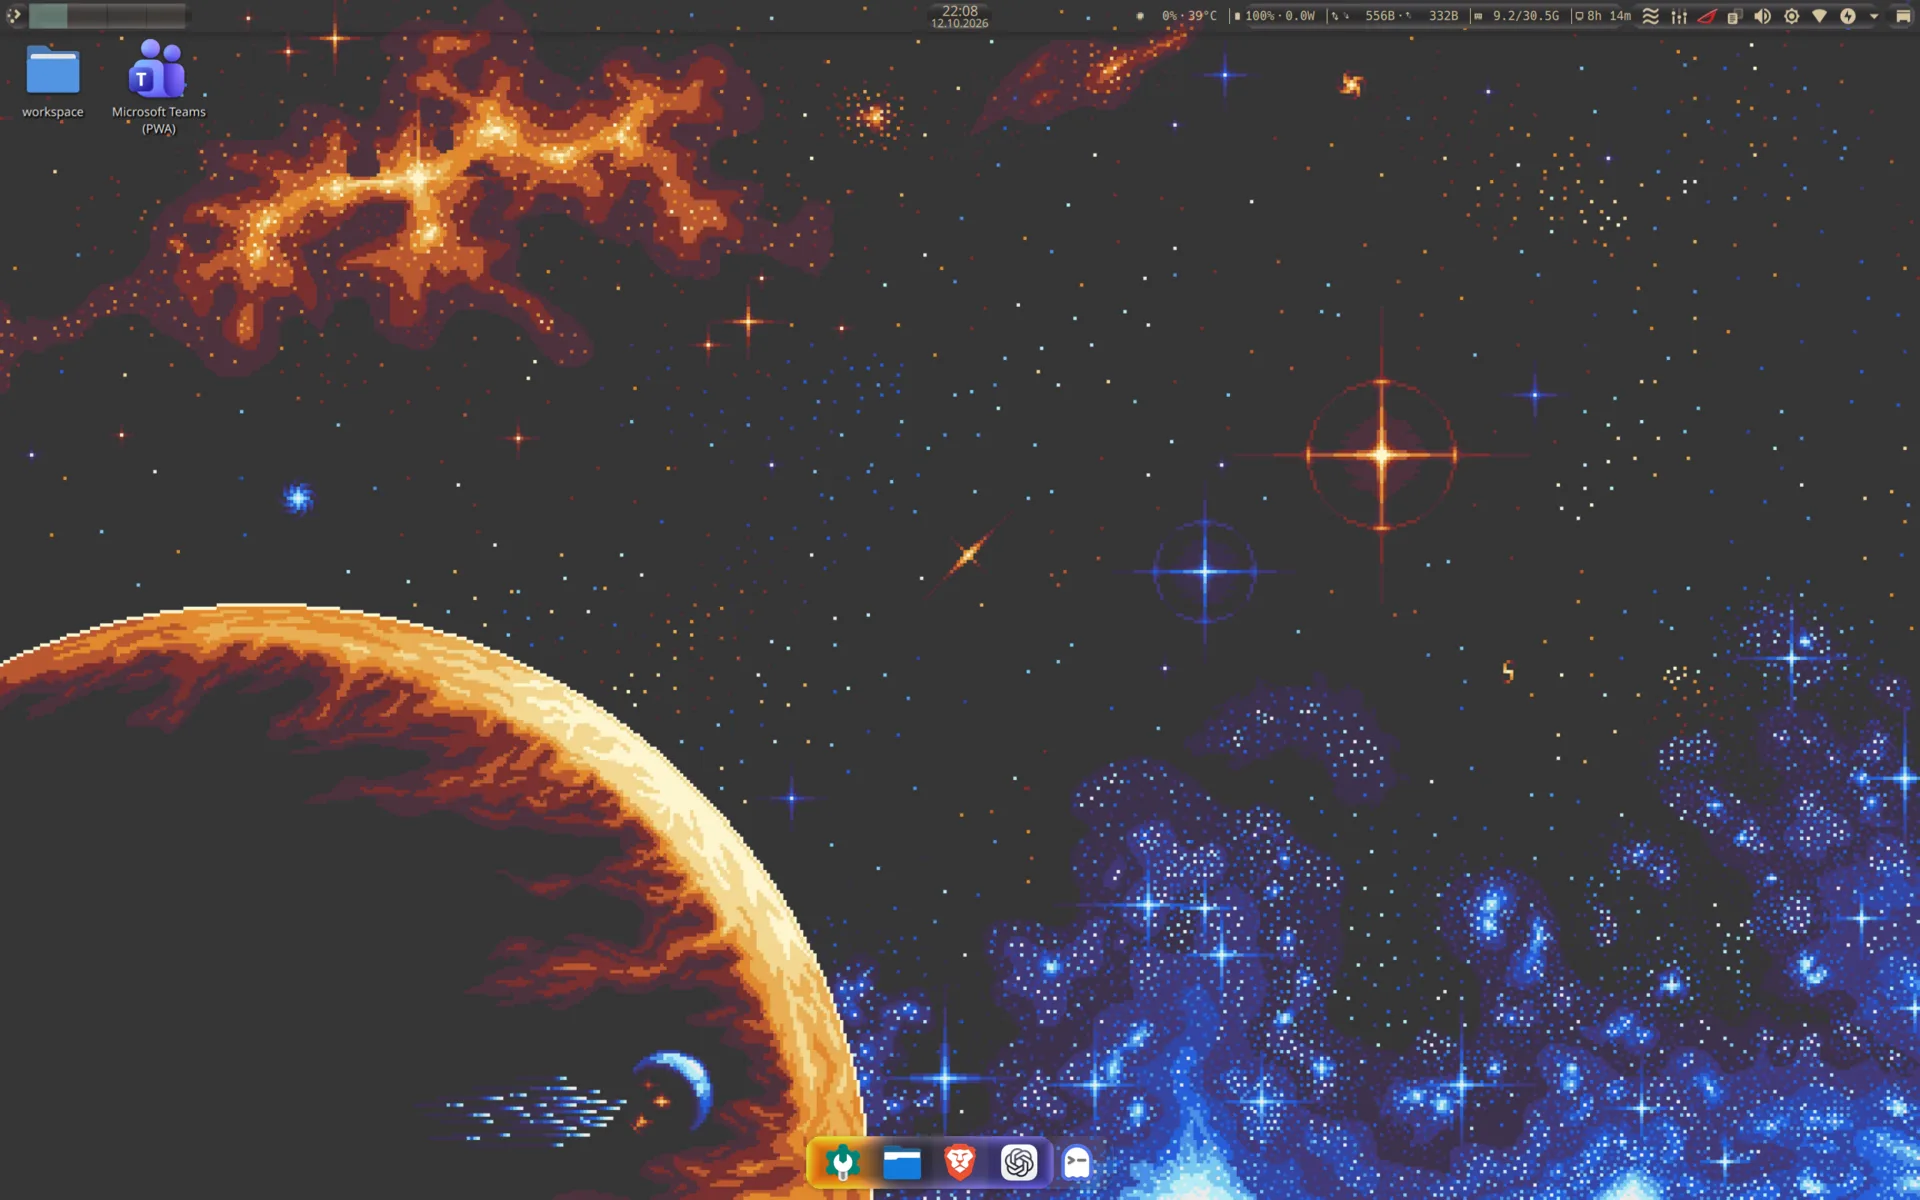
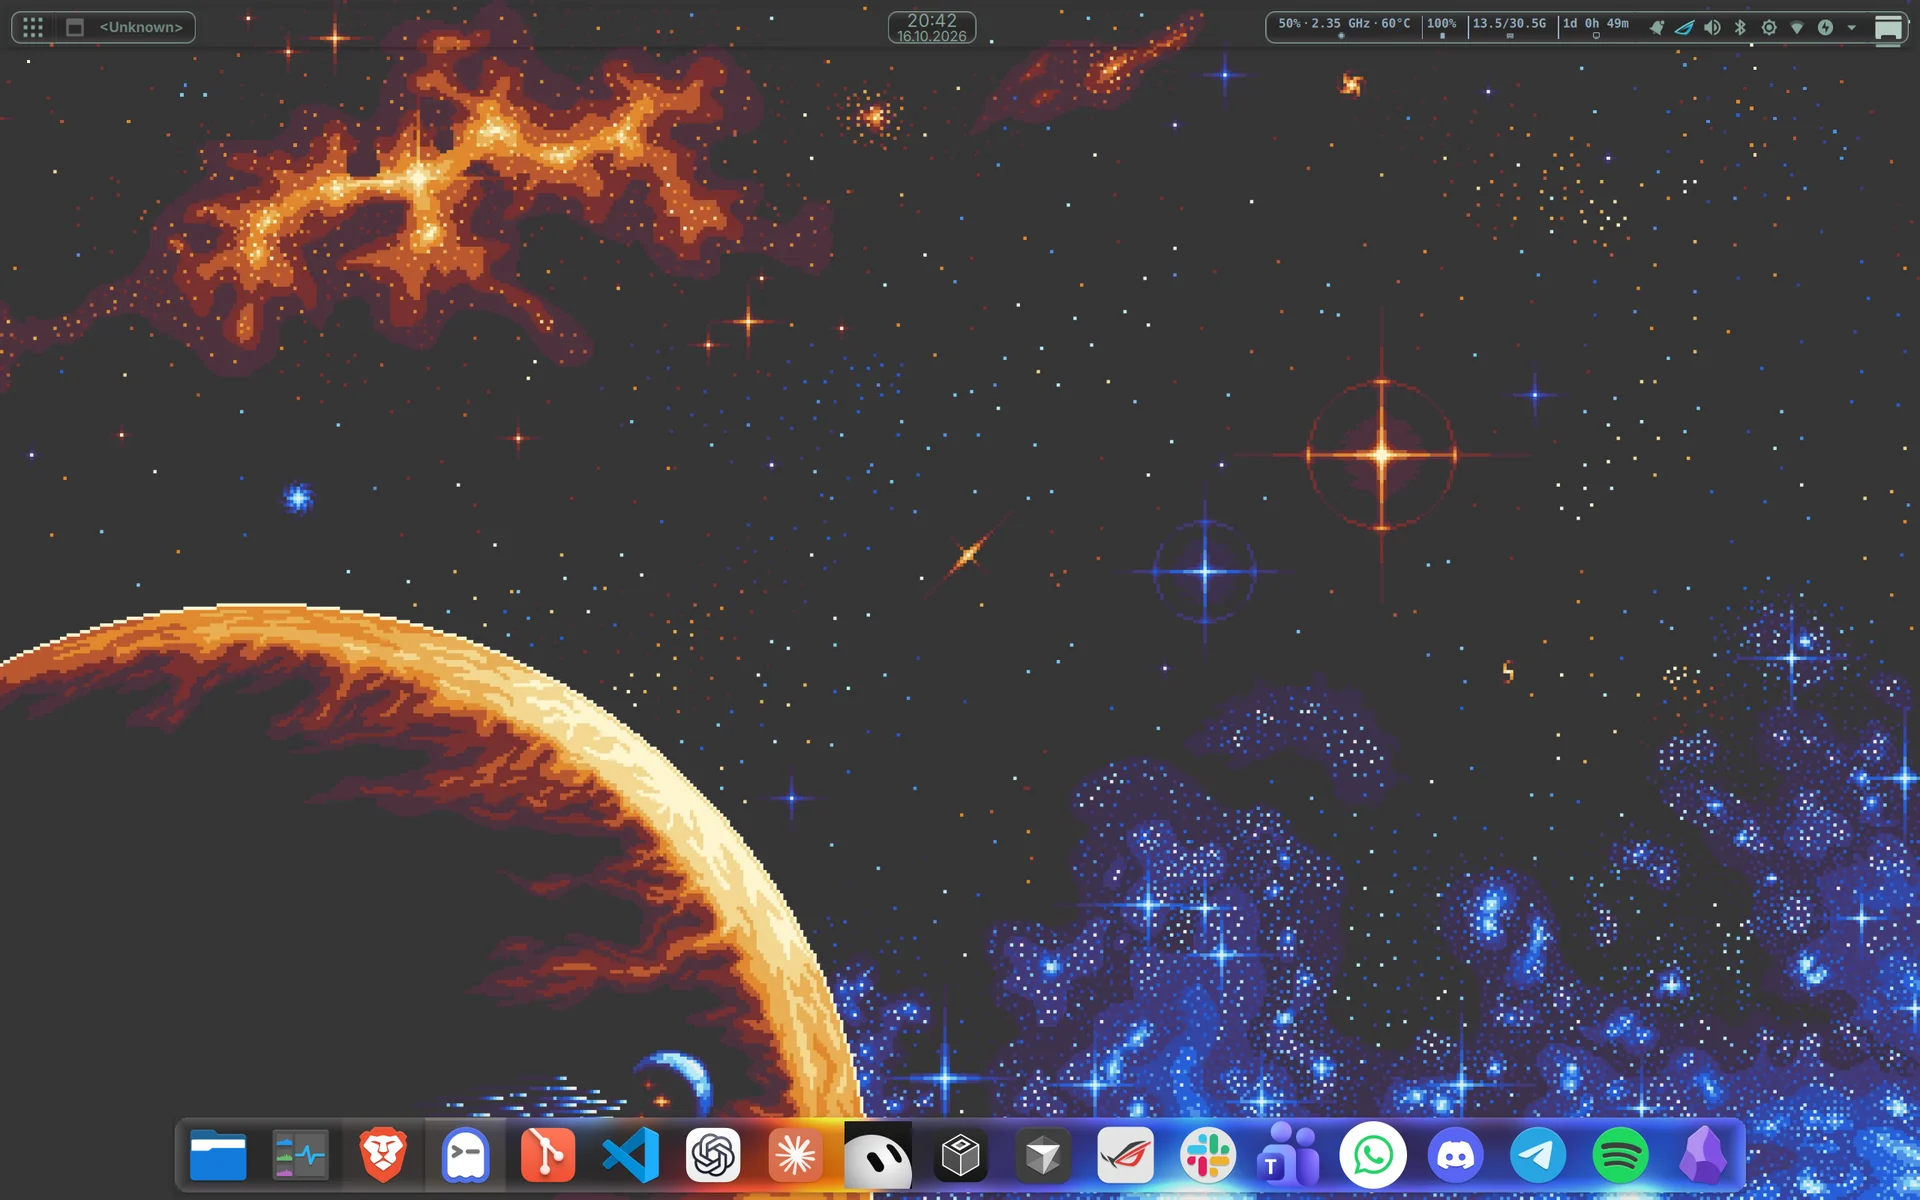
docs(readme): add a stack table, new highlights, fresh screenshots and an MIT licence (#166)

diff --git a/README.md b/README.md
@@ -7,17 +7,19 @@
 **Two NixOS laptops in one flake, deployed from a Fedora desktop over Tailscale,<br>
 with a CachyOS kernel that CI compiles so the laptops never do.**
 
+This is my own setup, not a framework. Read it and copy the parts you need.
+
 [![NixOS unstable](https://img.shields.io/badge/NixOS-unstable-5277C3?style=flat-square&logo=nixos&logoColor=white)](https://github.com/NixOS/nixpkgs/tree/nixos-unstable)
 [![check](https://img.shields.io/github/actions/workflow/status/OmerFarukOruc/nixos-config/check.yml?branch=main&style=flat-square&label=check&logo=github)](https://github.com/OmerFarukOruc/nixos-config/actions/workflows/check.yml)
 [![kernel-cache](https://img.shields.io/github/actions/workflow/status/OmerFarukOruc/nixos-config/kernel-cache.yml?branch=main&style=flat-square&label=kernel-cache&logo=linux&logoColor=white)](https://github.com/OmerFarukOruc/nixos-config/actions/workflows/kernel-cache.yml)
 [![host-packages-cache](https://img.shields.io/github/actions/workflow/status/OmerFarukOruc/nixos-config/host-packages-cache.yml?branch=main&style=flat-square&label=host-packages-cache)](https://github.com/OmerFarukOruc/nixos-config/actions/workflows/host-packages-cache.yml)
 [![Cachix](https://img.shields.io/badge/cachix-omerfarukoruc-4E7FC1?style=flat-square)](https://omerfarukoruc.cachix.org)
 
-[Hosts](#hosts) · [Highlights](#highlights) · [Layout](#layout) · [Everyday commands](#everyday-commands) · [Docs](#docs) · [Built on](#built-on)
+[Hosts](#hosts) · [Stack](#stack) · [Highlights](#highlights) · [Layout](#layout) · [Everyday commands](#everyday-commands) · [Docs](#docs) · [Built on](#built-on)
 
 <img src="assets/screenshots/nixos-rog-plasma-fastfetch.webp" width="90%" alt="nixos-rog running KDE Plasma with fastfetch in Ghostty">
 
-<sub>nixos-rog · KDE Plasma · Ghostty · Gruvbox Dark Medium from Base16</sub>
+<sub>nixos-rog · KDE Plasma with the Glass look · Ghostty · Warm Burnout Dark from Base16</sub>
 
 </div>
 
@@ -33,34 +35,81 @@ with a CachyOS kernel that CI compiles so the laptops never do.**
 | --- | --- | --- | --- | --- | --- |
 | `nixos-rog` | daily laptop | ASUS ROG Zephyrus G16 GA605WI, Ryzen AI 9 HX 370, RTX 4070 | Plasma · niri + Noctalia · niri + DMS | CachyOS LTO `zen4` | Limine, next to Windows |
 | `nixos-latitude` | home lab box | Dell Latitude 3550 | niri + Noctalia | CachyOS LTO `x86_64-v3` | systemd-boot |
-| `nixos-desktop` | planned | the PC that runs fedora-desktop today | | | |
 
-`machines/inventory.nix` is the source of truth for this table. `nixos-desktop`
-is an inventory record only; the flake does not build it.
+`machines/inventory.nix` is the source of truth for this table. A third record,
+`nixos-desktop`, is inventory only; the flake does not build it.
+
+## Stack
+
+| Part | Choice |
+| --- | --- |
+| Kernel | CachyOS LTO from [nix-cachyos-kernel](https://github.com/xddxdd/nix-cachyos-kernel), built by CI |
+| Boot loader | Limine on nixos-rog, systemd-boot on nixos-latitude |
+| Login screen | SDDM with sddm-astronaut's Jake the dog theme |
+| Desktops | KDE Plasma 6, and niri with Noctalia or DankMaterialShell |
+| Plasma looks | Glass and Klassy on nixos-rog, switched with `plasma-look` |
+| Launcher | Rofi and the macOS Tahoe launcher on nixos-rog, Vicinae on nixos-latitude |
+| Terminal | Ghostty |
+| Login shell | zsh with oh-my-zsh and Starship |
+| Editors | VS Code, and Neovim through nvf |
+| Theme | Base16 through base16.nix, `warm-burnout-dark` by default, switched with `theme` |
+| Secrets | sops-nix with age on nixos-rog |
+| DNS | NextDNS over TLS and Tailscale MagicDNS on nixos-rog |
+| Remote access | Tailscale, and Sunshine on nixos-latitude |
+| Binary cache | the `omerfarukoruc` Cachix cache and `cache.numtide.com` |
 
 ## Highlights
 
 - **🧊 A kernel the laptops download.** The [`kernel-cache`](kernel-cache/README.md)
   flake builds the CachyOS LTO kernel, the NVIDIA open module, ryzen-smu and
   turbostat on GitHub Actions and pushes them to the `omerfarukoruc` Cachix
-  cache. `scripts/update-kernel.sh` moves a host only to a revision whose every
-  path is already in that cache.
+  cache. [`scripts/update-kernel.sh`](scripts/update-kernel.sh) moves a host
+  only to a revision whose every path is already in that cache.
 - **🪟 Three login sessions, one theme.** nixos-rog offers Plasma, niri with Noctalia
   and niri with DankMaterialShell at the login screen. One Base16 scheme sets the
   colors, cursor, icons and wallpaper of all of them. The login screen and the
   Plasma lock screen show Jake the dog instead.
+  [`nixosModules/theme.nix`](nixosModules/theme.nix),
+  [`home-manager/modules/theme.nix`](home-manager/modules/theme.nix)
+- **🎨 Schemes and Plasma looks without a rebuild.** `theme catppuccin-mocha`
+  switches the Base16 scheme and `plasma-look klassy` switches the Plasma look
+  at run time. Every pair of look and scheme other than the default is a Home
+  Manager specialisation of the same generation, and the choice stays across
+  deploys. The login screen, boot menu, console and niri keep the machine's
+  default scheme. A look sets the
+  Plasma style, window decoration, Qt style and KWin effects that belong
+  together; Glass and Klassy are the two looks.
+  [`machines/variants.nix`](machines/variants.nix),
+  [`nixosModules/hm-variants.nix`](nixosModules/hm-variants.nix),
+  [`home-manager/modules/plasma-looks/`](home-manager/modules/plasma-looks)
+- **🔥 One scheme for the editors too.** Both hosts start on `warm-burnout-dark`,
+  a Base16 scheme in [`assets/schemes`](assets/schemes). A `warm-burnout-*`
+  scheme also installs Warm Burnout's own VS Code and Neovim themes, which color
+  syntax beyond the 16 Base16 colors.
+  [`home-manager/modules/theme.nix`](home-manager/modules/theme.nix)
+- **🍎 A macOS Tahoe dock on an OLED screen.** Plasma takes its launcher and dock
+  from the macOS Tahoe theme, with hover zoom and notification badges. To keep
+  the top bar and the dock from burning in, the theme's pixel shift moves each
+  panel by 2 px every 5 minutes, up to 8 px each way and back.
+  [`home-manager/modules/plasma-panels.nix`](home-manager/modules/plasma-panels.nix),
+  [`machines/nixos-rog/oled-care.nix`](machines/nixos-rog/oled-care.nix)
 - **🛟 Deploys that roll themselves back.** `deploy.sh` builds on the target,
   activates under a 420 second rollback timer, then checks SSH, Tailscale and
   the user's running services. A deploy that breaks any of them restores the
   previous system, even when the connection drops.
+  [`deploy.sh`](deploy.sh)
 - **🔄 A laptop that updates itself.** Every hour on AC power, nixos-rog moves its
   inputs and apps, waits for the caches to hold the expensive builds, deploys the
   result to itself and squash-merges it to `main`.
+  [`machines/nixos-rog/auto-update.nix`](machines/nixos-rog/auto-update.nix),
+  [`scripts/auto-update.sh`](scripts/auto-update.sh)
 - **🔐 Secrets bound to the machine.** sops-nix decrypts `secrets/nixos-rog.yaml`
   with the age key derived from the laptop's SSH host key.
+  [`machines/nixos-rog/configuration.nix`](machines/nixos-rog/configuration.nix)
 - **🧭 Private DNS on nixos-rog.** Public names go only to NextDNS over TLS and
   tailnet names go to Tailscale's MagicDNS. A `captive-dns` switch handles Wi-Fi
   sign-in pages.
+  [`machines/nixos-rog/network.nix`](machines/nixos-rog/network.nix)
 
 ## Layout
 
@@ -97,11 +146,17 @@ checkout on nixos-rog, which has Nix. The hourly updater on nixos-rog runs them.
 | --- | --- |
 | `./deploy.sh nixos-rog` | build, activate, confirm and make it the boot default |
 | `./deploy.sh nixos-rog test` | activate until the next reboot only |
-| `./deploy.sh nixos-rog boot` | set the boot default without activating |
-| `./deploy.sh nixos-rog prune` | delete old release copies, keeping the five newest and any the host runs or boots |
 | `upgrade` (on nixos-rog) | run the hourly updater now: move inputs and apps, deploy nixos-rog and merge to `main` |
 | `scripts/update-kernel.sh` | move the kernel to the newest cached build |
 | `scripts/check-on-rog.sh` | run the formatter and flake checks on nixos-rog and list each distinct evaluation warning; `--fix` formats |
+
+<details>
+<summary>More commands</summary>
+
+| Command | What it does |
+| --- | --- |
+| `./deploy.sh nixos-rog boot` | set the boot default without activating |
+| `./deploy.sh nixos-rog prune` | delete old release copies, keeping the five newest and any the host runs or boots |
 | `scripts/eval-on-rog.sh [--json] [--abort-on-warn] ATTRIBUTE` | print one value of nixos-rog's configuration, or of any flake attribute when it holds `#`; a value that is not a string needs `--json`, and `--abort-on-warn` stops at the first evaluation warning with its stack trace |
 | `scripts/build-on-rog.sh [ATTRIBUTE...]` | build on nixos-rog from a copy of the checkout and print each output path; with no ATTRIBUTE, build nixos-rog's system |
 | `scripts/run-unit-on-rog.sh [--user] UNIT [SECONDS]` | run a service's script on nixos-rog for up to SECONDS (default 40) with only the unit's environment, or with `--user` a Home Manager user unit, before a deploy |
@@ -116,6 +171,8 @@ checkout on nixos-rog, which has Nix. The hourly updater on nixos-rog runs them.
 | `scripts/vscode-cdp-on-rog.sh on\|off\|run STEPS_JSON` | drive VS Code on nixos-rog over the DevTools Protocol |
 | `scripts/mic-ab-on-rog.sh level VOLUME...` or `ab` | record nixos-rog's microphone to pick its level, or to compare the raw microphone with both denoised sources; the script header lists the steps |
 | `scripts/thermal-test-rog.sh PROFILE [OPTION...]` | load nixos-rog's CPU, GPU or both in a power profile and record temperature, power and fans; the script header lists the options |
+
+</details>
 
 `deploy.sh` takes a `HOST` (nixos-rog or nixos-latitude), `--allow-dirty` for a
 dirty tree and `--replace` to drop a running release's files; [Deploy](docs/deploy.md)
@@ -148,14 +205,26 @@ ordering cycle on every pull request and push to `main`.
 
 ## Built on
 
-[nix-cachyos-kernel](https://github.com/xddxdd/nix-cachyos-kernel) ·
-[home-manager](https://github.com/nix-community/home-manager) ·
-[plasma-manager](https://github.com/nix-community/plasma-manager) ·
-[base16.nix](https://github.com/SenchoPens/base16.nix) ·
-[sops-nix](https://github.com/Mic92/sops-nix) ·
-[niri](https://github.com/YaLTeR/niri) ·
-[Noctalia](https://github.com/noctalia-dev/noctalia-shell) ·
-[DankMaterialShell](https://github.com/AvengeMedia/DankMaterialShell) ·
-[sddm-astronaut-theme](https://github.com/Keyitdev/sddm-astronaut-theme) ·
-[Smart Video Wallpaper Reborn](https://github.com/luisbocanegra/plasma-smart-video-wallpaper-reborn) ·
-[llm-agents.nix](https://github.com/numtide/llm-agents.nix)
+| Project | Used for |
+| --- | --- |
+| [nix-cachyos-kernel](https://github.com/xddxdd/nix-cachyos-kernel) | the CachyOS kernels |
+| [home-manager](https://github.com/nix-community/home-manager) | the user layer |
+| [plasma-manager](https://github.com/nix-community/plasma-manager) | Plasma settings and panels |
+| [base16.nix](https://github.com/SenchoPens/base16.nix) | reading Base16 schemes |
+| [tinted-theming/schemes](https://github.com/tinted-theming/schemes) | the Base16 schemes |
+| [Warm Burnout](https://github.com/felipefdl/warm-burnout) | the VS Code and Neovim themes of the `warm-burnout-*` schemes |
+| [sops-nix](https://github.com/Mic92/sops-nix) | secrets |
+| [niri](https://github.com/YaLTeR/niri) | the scrolling Wayland compositor |
+| [Noctalia](https://github.com/noctalia-dev/noctalia-shell) | a niri shell |
+| [DankMaterialShell](https://github.com/AvengeMedia/DankMaterialShell) | a niri shell |
+| [Glass](https://github.com/4v3ngR/Glass) | the Glass look's window decoration and Qt style |
+| [kwin-effects-glass](https://github.com/4v3ngR/kwin-effects-glass) | the Glass look's KWin effect |
+| [macos-tahoe-liquid-kde](https://github.com/lestercorderomurillo/macos-tahoe-liquid-kde) | the Plasma launcher, dock and OLED pixel shift |
+| [sddm-astronaut-theme](https://github.com/Keyitdev/sddm-astronaut-theme) | the login screen |
+| [Smart Video Wallpaper Reborn](https://github.com/luisbocanegra/plasma-smart-video-wallpaper-reborn) | the video wallpaper of the Plasma lock screen |
+| [nvf](https://github.com/NotAShelf/nvf) | Neovim |
+| [vscode-vibrancy-continued](https://github.com/illixion/vscode-vibrancy-continued) | the see-through VS Code window |
+| [spicetify-nix](https://github.com/Gerg-L/spicetify-nix) | themed Spotify |
+| [hushmic-nix](https://github.com/Fovty/hushmic-nix) | the denoised microphone |
+| [nix-index-database](https://github.com/nix-community/nix-index-database) | comma and command-not-found |
+| [llm-agents.nix](https://github.com/numtide/llm-agents.nix) | coding agent CLIs |
